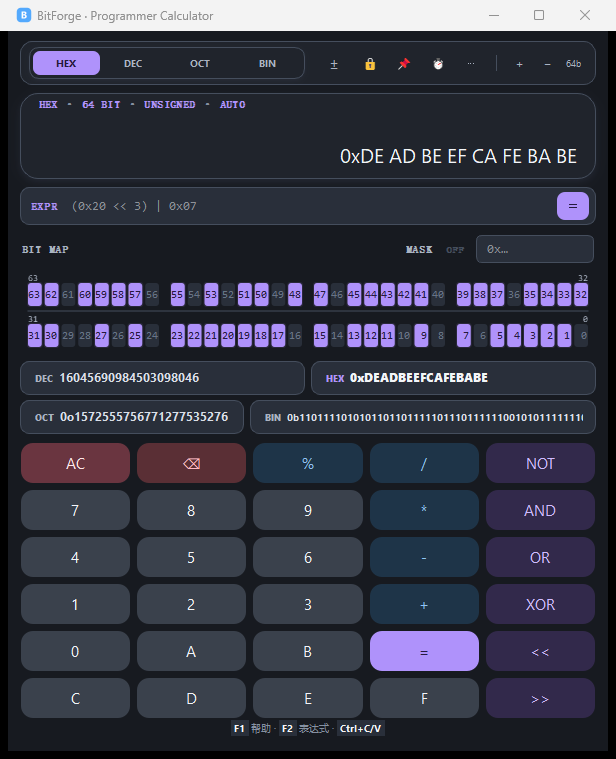
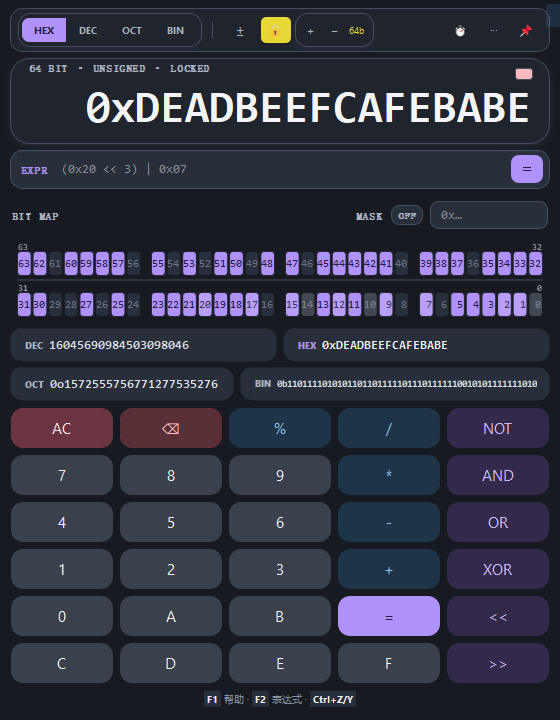
feat: v1.13.0 — 显示卡状态微行 + DEC 千分位分组(仅显示) + ± 按钮持久化态修复 + docs 截图换新 (459+669 全绿)

diff --git a/bitforge/main_window.py b/bitforge/main_window.py
@@ -21,7 +21,7 @@ from .widgets import BFButton, BitGlow, DisplayText, make_app_icon, make_shadow
 
 
 class BitForge(QMainWindow):
-    APP = "BitForge"; VER = "v1.12.1"
+    APP = "BitForge"; VER = "v1.13.0"
 
     def __init__(self):
         super().__init__()
@@ -34,6 +34,7 @@ class BitForge(QMainWindow):
         self._lock_style_state=None   # 上次刷新时的锁定状态 (样式 guard)
         self._aux_last={}             # 辅助行上次 HTML (setText guard)
         self._expr_last=""            # 表达式行上次文本
+        self._status_last=None        # 状态微行上次文本 (setText guard)
         self._display_value="0"       # 未分组的显示值，供复制和右键菜单使用
         self._display_font_size=None
         self._sel_value=None          # 当前选中位域的值 (点击 SEL 标签复制)
@@ -250,7 +251,9 @@ class BitForge(QMainWindow):
         self._sign_btn.setFont(self._si_font(14))
         self._sign_btn.setFixedSize(34,26)
         self._sign_btn.setCheckable(True)
-        self._sign_btn.setStyleSheet(self._sign_style(False))
+        # 按恢复的符号模式初始化 (持久化 signed=True 时按钮态必须一致)
+        self._sign_btn.setChecked(self._signed)
+        self._sign_btn.setStyleSheet(self._sign_style(self._signed))
         self._sign_btn.clicked.connect(self._toggle_sign)
         tbl.addWidget(self._sign_btn)
         self._lock_btn=QPushButton("\U0001f512")
@@ -329,6 +332,11 @@ class BitForge(QMainWindow):
         self._expr_label.setStyleSheet(f"color:{C['sub']};font-size:13px;font-weight:600;")
         self._expr_label.setAlignment(Qt.AlignLeft|Qt.AlignBottom)
         self._expr_label.setAttribute(Qt.WA_TransparentForMouseEvents)
+        # 显示区左上角: 位宽/符号/锁定 状态微行
+        self._status_label=QLabel(self._display)
+        self._status_label.setStyleSheet(f"color:{C['sub']};font-size:10px;font-weight:700;letter-spacing:0.6px;")
+        self._status_label.setAlignment(Qt.AlignLeft|Qt.AlignTop)
+        self._status_label.setAttribute(Qt.WA_TransparentForMouseEvents)
         self._display.installEventFilter(self)
         self._display.setContextMenuPolicy(Qt.CustomContextMenu)
         self._display.customContextMenuRequested.connect(self._show_display_menu)
@@ -541,6 +549,9 @@ class BitForge(QMainWindow):
             m=self._display.contentsMargins()
             self._expr_label.setGeometry(m.left(), 0,
                 self._display.width()-m.left()-m.right(), self._display.height()-3)
+            # 状态微行贴左上, 右侧让位 RGB 色板
+            self._status_label.setGeometry(m.left(), 4,
+                max(40,self._display.width()-m.left()-m.right()-60), 14)
             self._rgb_chip.move(self._display.width()-34, 9)
         return super().eventFilter(obj,ev)
 
@@ -609,6 +620,7 @@ class BitForge(QMainWindow):
         self._bit_width=s.value("calc/bit_width",8,type=int)
         if self._bit_width not in BIT_MASKS: self._bit_width=8
         self._pad_display=s.value("format/pad_display",False,type=bool)
+        self._dec_grouping=s.value("format/dec_grouping",False,type=bool)
         self._byte_order=s.value("format/byte_order","native")
         if self._byte_order not in ("native","little"): self._byte_order="native"
         self._mask_favorites=self._restore_number_history(s.value("calc/mask_favorites",[]),8)
@@ -665,7 +677,7 @@ class BitForge(QMainWindow):
         self._theme=theme; self._apply_theme_colors(); self._set_style()
         old=self.takeCentralWidget()
         if old is not None: old.deleteLater()
-        self._aux_last={}; self._expr_last=""; self._lock_style_state=None; self._display_font_size=None; self._chip_last=None
+        self._aux_last={}; self._expr_last=""; self._status_last=None; self._lock_style_state=None; self._display_font_size=None; self._chip_last=None
         self._build_ui(); self._expression_input.setText(expression); self._mask_le.setText(mask)
         self._update_layout_density(); self._refresh_display()
         if self._error:
@@ -684,6 +696,7 @@ class BitForge(QMainWindow):
             s.setValue("calc/locked",self._locked)
             s.setValue("calc/bit_width",self._bit_width)
             s.setValue("format/pad_display",self._pad_display)
+            s.setValue("format/dec_grouping",self._dec_grouping)
             s.setValue("format/byte_order",self._byte_order)
             s.setValue("calc/mask_favorites",[str(v) for v in self._mask_favorites])
             s.setValue("calc/field_start",self._field_recent[0])
@@ -1017,6 +1030,8 @@ class BitForge(QMainWindow):
         format_menu=m.addMenu("格式与 Mask")
         a_pad=format_menu.addAction("HEX / BIN 补齐到位宽")
         a_pad.setCheckable(True); a_pad.setChecked(self._pad_display)
+        a_decgrp=format_menu.addAction("DEC 千分位分组显示")
+        a_decgrp.setCheckable(True); a_decgrp.setChecked(self._dec_grouping)
         order_menu=format_menu.addMenu("字节序预览")
         a_native=order_menu.addAction("原始字节序")
         a_native.setCheckable(True); a_native.setChecked(self._byte_order=="native")
@@ -1058,6 +1073,7 @@ class BitForge(QMainWindow):
         elif act==a_extract: self._extract_field()
         elif act==a_write: self._write_field()
         elif act==a_pad: self._set_padding(not self._pad_display)
+        elif act==a_decgrp: self._set_dec_grouping(not self._dec_grouping)
         elif act==a_native: self._set_byte_order("native")
         elif act==a_little: self._set_byte_order("little")
         elif act in mask_actions: self._apply_mask_value(mask_actions[act],"已应用常用 Mask")
@@ -1083,6 +1099,11 @@ class BitForge(QMainWindow):
         self._pad_display=bool(on); self._refresh_display()
         self._toast("HEX / BIN 已补齐到位宽" if on else "HEX / BIN 使用紧凑显示")
         dlog("display padding", on)
+
+    def _set_dec_grouping(self,on):
+        self._dec_grouping=bool(on); self._refresh_display()
+        self._toast("DEC 千分位分组显示" if on else "DEC 使用紧凑显示")
+        dlog("dec grouping", on)
 
     def _set_byte_order(self,order):
         if order not in ("native","little") or order==self._byte_order: return
@@ -1232,7 +1253,8 @@ class BitForge(QMainWindow):
         # The RGB chip lives in the card's top-right while the value is bottom-aligned.
         available=max(80,self._display.width()-margins.left()-margins.right())
         m=compute_display_model(self._state, pad_display=self._pad_display,
-                                byte_order=self._byte_order, available_width=available)
+                                byte_order=self._byte_order, available_width=available,
+                                dec_grouping=self._dec_grouping)
         # 数值滚动动画 (仅 DEC、操作结果、值变幅 > 9)
         if self._radix==10 and self._new_entry and m.raw!=self._ani_last:
             try:
@@ -1248,7 +1270,7 @@ class BitForge(QMainWindow):
             if m.groups:
                 self._display.setGroupedText(*m.groups,m.visual)
             else:
-                self._display.setText(m.visual)
+                self._display.setText(m.display_text)
         self._display_value=m.raw
         if m.font_size!=self._display_font_size:
             self._display_font_size=m.font_size; self._display.setFont(self._display_font(m.font_size))
@@ -1263,6 +1285,11 @@ class BitForge(QMainWindow):
             self._byte_order_label.hide()
         bw_text=f"{self._bit_width}b"
         if self._bit_width_lb.text()!=bw_text: self._bit_width_lb.setText(bw_text)
+        # 状态微行 — 位宽/符号/锁定, 内容不变时跳过
+        status=f"{self._bit_width} BIT · {'SIGNED' if self._signed else 'UNSIGNED'} · {'LOCKED' if self._locked else 'AUTO'}"
+        if status!=self._status_last:
+            self._status_last=status
+            self._status_label.setText(status)
         # 位宽标签/锁按钮样式 — 仅锁定状态变化时刷新, 避免每次按键重刷样式表
         if self._locked != self._lock_style_state:
             self._lock_style_state=self._locked

diff --git a/test_bitforge.py b/test_bitforge.py
@@ -8,9 +8,9 @@ sys.path.insert(0, os.path.join(os.path.dirname(__file__), "..", "..", ".."))
 from PyQt5.QtCore import Qt, QEvent, QPoint, QVariantAnimation
 from PyQt5.QtGui import QKeyEvent
 from PyQt5.QtWidgets import QApplication
-from bitforge import (BIT_MASKS, BitForge, C, DisplayText, byte_swap, clamp, evaluate_expression,
-                      extract_field, parse_number, rotate_left, rotate_right, to_signed,
-                      write_field)
+from bitforge import (BIT_MASKS, BitForge, C, DisplayText, byte_swap, clamp, dec_group,
+                      evaluate_expression, extract_field, parse_number, rotate_left,
+                      rotate_right, to_signed, write_field)
 
 app = QApplication(sys.argv)
 w = BitForge()
@@ -834,7 +834,7 @@ print("=== 32. Release polish: display state / Bit Map / Mask draft ===")
 
 w._clear_all(); w._signed=False; w._rad(16); w._set_bit_width(32)
 w._value=0x1234; w._refresh_display(); app.processEvents()
-check("display remains free of status labels", not hasattr(w,"_display_meta"), "display metadata exists")
+check("display carries a status micro-line", hasattr(w,"_status_label"), "status label missing")
 check("selection pill has a fixed width", w._sel_label.width()==158, str(w._sel_label.width()))
 w._on_mask_changed("0xF0")
 w._on_mask_changed("0xBAD!")
@@ -1038,6 +1038,35 @@ w.resize(680,720); w._update_layout_density(); app.processEvents()
 regular_margins=w._root_layout.contentsMargins()
 check("regular layout restores balanced margins", regular_margins.left()==14 and regular_margins.top()==8,
       f"margins={regular_margins.left()},{regular_margins.top()}")
+
+# ======== 38. UI 状态微行 / DEC 千分位分组 ========
+print("=== 38. Status micro-line / DEC grouping ===")
+
+w._clear_all(); w._rad(10); w._set_bit_width(32)
+w._refresh_display(); app.processEvents()
+check("status micro-line exists", hasattr(w, "_status_label"))
+check("status shows width and sign mode",
+      "32 BIT" in w._status_label.text() and "UNSIGNED" in w._status_label.text(),
+      w._status_label.text())
+check("status reflects lock state", "LOCKED" in w._status_label.text(), w._status_label.text())
+w._toggle_sign()
+check("status reflects signed mode",
+      "SIGNED" in w._status_label.text() and "UNSIGNED" not in w._status_label.text(),
+      w._status_label.text())
+w._toggle_sign()
+
+w._clear_all(); w._rad(10); w._locked=False; w._value=1234567; w._refresh_display()
+check("DEC grouping off by default", w._display.text() == "1234567", w._display.text())
+w._set_dec_grouping(True)
+check("DEC display groups thousands", w._display.text() == "1,234,567", w._display.text())
+check("grouping is display-only", w._display_value == "1234567", w._display_value)
+w._copy_current()
+check("copy stays raw under grouping", QApplication.clipboard().text() == "1234567",
+      QApplication.clipboard().text())
+w._set_dec_grouping(False)
+check("DEC grouping toggles off", w._display.text() == "1234567", w._display.text())
+check("dec_group helper handles sign, short and non-digit text",
+      dec_group("-1234567") == "-1,234,567" and dec_group("12") == "12" and dec_group("0x1F") == "0x1F")
 
 print()
 print(f"TOTAL: {passed} passed, {failed} failed")

diff --git a/bitforge/render.py b/bitforge/render.py
@@ -8,7 +8,7 @@ from typing import Optional
 
 from PyQt5.QtGui import QFont, QFontMetrics
 
-from .core import OP_SYMBOLS, clamp, to_signed
+from .core import OP_SYMBOLS, clamp, dec_group, to_signed
 from .theme import C
 
 GROUP_GAP = 4   # DisplayText 字节/半字节组间距 (像素)
@@ -81,6 +81,7 @@ class DisplayModel:
     raw: str                    # 未分组显示文本 (复制/工具提示用)
     visual: str                 # 分组后文本 (非 HEX/BIN 等于 raw)
     groups: Optional[tuple]     # (prefix, groups) 或 None
+    display_text: str           # 实际绘制的文本 (DEC 千分位在此, raw 保持可复制原样)
     font_size: int
     negative: bool              # DEC 有符号负数 → 红色
     aux: dict                   # name -> 辅助行 HTML
@@ -89,7 +90,7 @@ class DisplayModel:
     le_preview: Optional[str]   # Little Endian 预览; 原始字节序 None
 
 
-def compute_display_model(st, *, pad_display, byte_order, available_width):
+def compute_display_model(st, *, pad_display, byte_order, available_width, dec_grouping=False):
     """由计算状态计算待渲染数据。纯计算, 不触碰控件。"""
     u = clamp(st.value, st.bit_width)
     t = st.format_radix(st.value, st.radix, pad_display and st.radix in (2, 16))
@@ -99,6 +100,7 @@ def compute_display_model(st, *, pad_display, byte_order, available_width):
     elif not st.signed: t = str(u)   # DEC 无符号
     groups = display_groups(st.radix, t)
     visual = t if groups is None else groups[0] + " ".join(groups[1])
+    display_text = dec_group(t) if (dec_grouping and st.radix == 10) else t
     aux = {}
     for name in ("DEC", "HEX", "OCT", "BIN"):
         active = {"HEX": 16, "DEC": 10, "OCT": 8, "BIN": 2}[name] == st.radix
@@ -115,8 +117,8 @@ def compute_display_model(st, *, pad_display, byte_order, available_width):
     if byte_order == "little":
         le = "0x" + u.to_bytes(st.bit_width // 8, "big")[::-1].hex().upper()
     return DisplayModel(
-        raw=t, visual=visual, groups=groups,
-        font_size=font_size_for(t, groups, available_width),
+        raw=t, visual=visual, groups=groups, display_text=display_text,
+        font_size=font_size_for(display_text, groups, available_width),
         negative=(st.signed and st.radix == 10 and to_signed(u, st.bit_width) < 0),
         aux=aux, expr=expr,
         rgb=(u & 0xFFFFFF) if st.radix == 16 else None,

diff --git a/bitforge/__init__.py b/bitforge/__init__.py
@@ -4,8 +4,9 @@
 (测试与外部脚本 `from bitforge import X` 不受影响)。
 """
 from .core import (ALL_DIGITS, BIT_MASKS, DEBUG, OP_SYMBOLS, RADIX_DIGITS,
-                   byte_swap, clamp, dlog, evaluate_expression, extract_field,
-                   parse_number, rotate_left, rotate_right, to_signed, write_field)
+                   byte_swap, clamp, dec_group, dlog, evaluate_expression,
+                   extract_field, parse_number, rotate_left, rotate_right,
+                   to_signed, write_field)
 from .theme import BH, BR, C, DARK_C, IR, LIGHT_C
 from .widgets import BFButton, BitGlow, DisplayText, make_app_icon
 from .main_window import BitForge
@@ -13,7 +14,7 @@ from .app import main
 
 __all__ = [
     "ALL_DIGITS", "BIT_MASKS", "DEBUG", "OP_SYMBOLS", "RADIX_DIGITS",
-    "byte_swap", "clamp", "dlog", "evaluate_expression", "extract_field",
+    "byte_swap", "clamp", "dec_group", "dlog", "evaluate_expression", "extract_field",
     "parse_number", "rotate_left", "rotate_right", "to_signed", "write_field",
     "BH", "BR", "C", "DARK_C", "IR", "LIGHT_C",
     "BFButton", "BitForge", "BitGlow", "DisplayText", "make_app_icon", "main",

diff --git a/test_core.py b/test_core.py
@@ -10,7 +10,7 @@ import sys
 
 sys.path.insert(0, os.path.dirname(__file__))
 
-from bitforge.core import (BIT_MASKS, byte_swap, clamp, evaluate_expression,
+from bitforge.core import (BIT_MASKS, byte_swap, clamp, dec_group, evaluate_expression,
                            extract_field, parse_number, rotate_left, rotate_right,
                            to_signed, write_field)
 from bitforge.state import CalculatorState, compute
@@ -98,6 +98,11 @@ try:
     check("parse invalid raises", False)
 except ValueError:
     check("parse invalid raises", True)
+
+check("dec_group basic", dec_group("1234567") == "1,234,567")
+check("dec_group negative", dec_group("-1234567") == "-1,234,567")
+check("dec_group short stays flat", dec_group("12") == "12")
+check("dec_group non-digit passthrough", dec_group("0x1F") == "0x1F")
 
 # ======== 4. compute 纯函数 ========
 print("=== 4. compute() ===")

diff --git a/bitforge/core.py b/bitforge/core.py
@@ -164,3 +164,16 @@ def parse_number(text):
         digits=raw; base=10
     if not digits: raise ValueError("缺少数值")
     return sign*int(digits,base)
+
+def dec_group(text, sep=","):
+    """十进制千分位分组 (仅用于显示; 复制值保持原样)。非纯数字文本原样返回。"""
+    sign=""
+    if text.startswith("-"):
+        sign,text="-",text[1:]
+    if not text.isdigit():
+        return sign+text
+    parts=[]
+    while len(text)>3:
+        parts.append(text[-3:]); text=text[:-3]
+    parts.append(text)
+    return sign+sep.join(reversed(parts))

diff --git a/CHANGELOG.md b/CHANGELOG.md
@@ -1,3 +1,12 @@
+## v1.13.0 — Status micro-line & DEC grouping
+
+- Added a status micro-line in the display card's top-left corner: `32 BIT · UNSIGNED · LOCKED` updates live and never steals mouse events.
+- Added an optional thousands-separator display for DEC (Tools > 格式与 Mask); grouping is display-only — the copied value, aux rows and `_display_value` stay raw, and the font-fit measures the grouped text.
+- Both preferences persist via QSettings (`format/dec_grouping`).
+- Fixed the ± sign button ignoring the persisted signed mode at startup and after theme rebuilds (button state now initializes from `self._signed`).
+- Refreshed `docs/` screenshots against the new UI.
+- New coverage: status micro-line states, DEC grouping toggle/copy semantics (`test_bitforge` §38) and `dec_group` string helper (`test_core`).
+
 ## v1.12.1 — Detail sweep
 
 - Cached display font metrics per size (`render._metrics`) so every keystroke's font fit no longer rebuilds `QFontMetrics` objects.
